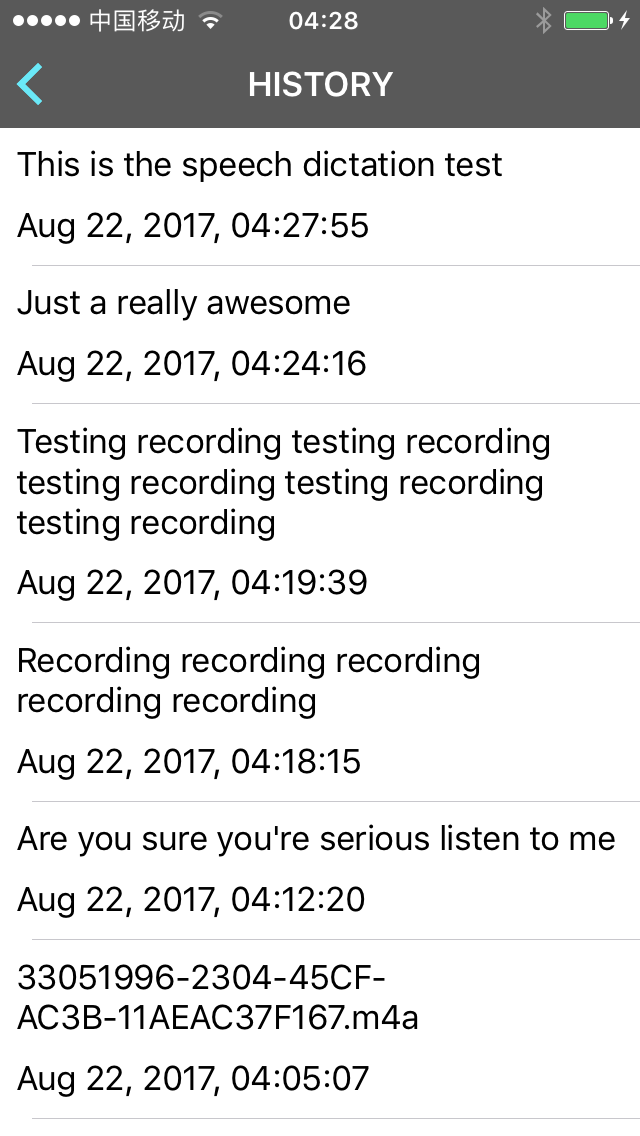
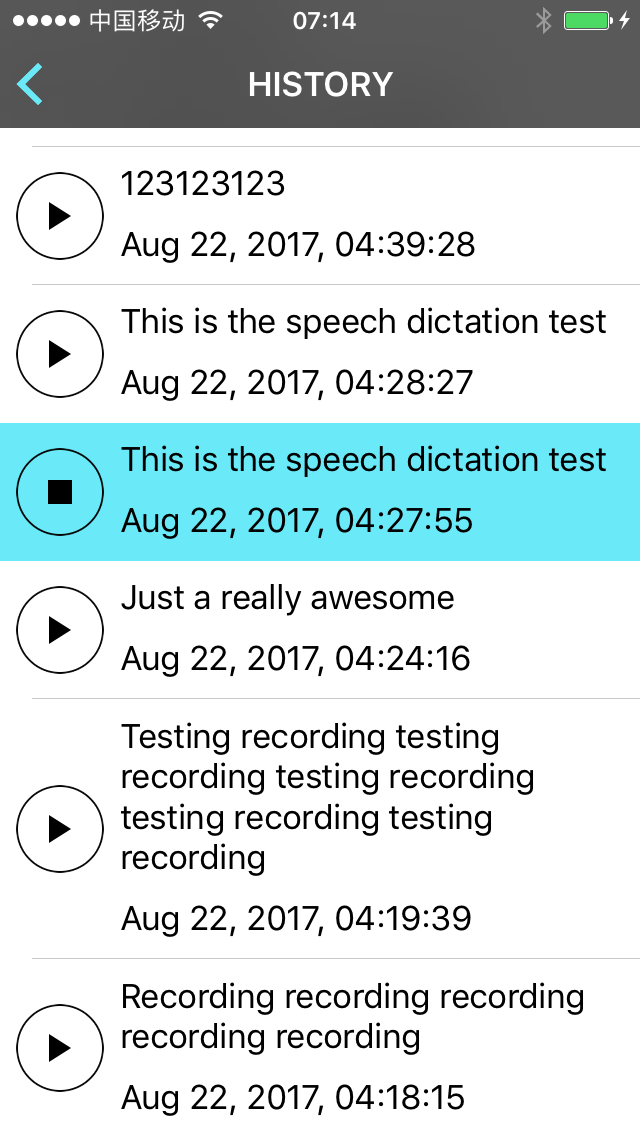
updated a screenshot, added play stop button indicator

diff --git a/VoiceMemo/VoiceMemoTableVC.swift b/VoiceMemo/VoiceMemoTableVC.swift
@@ -39,10 +39,18 @@ class VoiceMemoTableVC: UITableViewController {
         
     }
     
+    func deselectRow(_ indexPath : IndexPath) {
+        tableView.deselectRow(at: indexPath, animated: true)
+        if let cell = tableView.cellForRow(at: indexPath) as? VoiceMemoTableViewCell {
+            cell.playButtonState = false
+        }
+    }
+    
+    
     func finishPlayback(noti : Notification) {
         //let flag = noti.object as? Bool // not using right now
         if let indexPath = tableView.indexPathForSelectedRow{
-            tableView.deselectRow(at: indexPath, animated: true)
+            deselectRow(indexPath)
         }
         
     }
@@ -51,25 +59,31 @@ class VoiceMemoTableVC: UITableViewController {
         return voiceRecords.count
     }
     
+    override func tableView(_ tableView: UITableView, cellForRowAt indexPath: IndexPath) -> UITableViewCell {
+        let cell = tableView.dequeueReusableCell(withIdentifier: "voiceCell", for: indexPath) as! VoiceMemoTableViewCell
+        let record = voiceRecords[indexPath.row]
+        cell.nameLabel.text = record.fileDescription ?? record.fileName
+        cell.descriptionLabel.text = (record.creationDate as Date?)?.toTimeString()
+        cell.playButtonState =  indexPath == tableView.indexPathForSelectedRow
+        
+        return cell
+    }
+    
+    override func tableView(_ tableView: UITableView, didDeselectRowAt indexPath: IndexPath) {
+        if let cell = tableView.cellForRow(at: indexPath) as? VoiceMemoTableViewCell {
+            cell.playButtonState = false
+        }
+    }
+    
     override func tableView(_ tableView: UITableView, willSelectRowAt indexPath: IndexPath) -> IndexPath? {
         if indexPath == tableView.indexPathForSelectedRow{
-            tableView.deselectRow(at: indexPath, animated: true)
+            deselectRow(indexPath)
             VM.shared.stopPlayback()
             return nil
         }
         return indexPath
     }
     
-    override func tableView(_ tableView: UITableView, cellForRowAt indexPath: IndexPath) -> UITableViewCell {
-        let cell = tableView.dequeueReusableCell(withIdentifier: "voiceCell", for: indexPath) as! VoiceMemoTableViewCell
-        let record = voiceRecords[indexPath.row]
-        cell.nameLabel.text = record.fileDescription ?? record.fileName
-        cell.descriptionLabel.text = (record.creationDate as Date?)?.toTimeString()
-        
-        return cell
-    }
-    
-
     
     override func tableView(_ tableView: UITableView, didSelectRowAt indexPath: IndexPath) {
         
@@ -81,6 +95,9 @@ class VoiceMemoTableVC: UITableViewController {
         }
         VM.shared.stopPlayback()
         VM.shared.playFile(fileName)
+        if let cell = tableView.cellForRow(at: indexPath) as? VoiceMemoTableViewCell {
+            cell.playButtonState = true
+        }
     }
     
     override func tableView(_ tableView: UITableView, editActionsForRowAt indexPath: IndexPath) -> [UITableViewRowAction]? {
@@ -98,6 +115,16 @@ class VoiceMemoTableVC: UITableViewController {
 class VoiceMemoTableViewCell : UITableViewCell {
     @IBOutlet weak var nameLabel: UILabel!
     @IBOutlet weak var descriptionLabel: UILabel!
+    @IBOutlet weak var playStopButton: UIButton!
+    var playButtonState : Bool {
+        set{
+            if newValue {playStopButton.setTitle("", for: .normal)}
+            else {playStopButton.setTitle("", for: .normal)}
+        }
+        get{
+            return self.playButtonState
+        }
+    }
     
 }
 

diff --git a/VoiceMemo/CustomizedViews.swift b/VoiceMemo/CustomizedViews.swift
@@ -14,18 +14,13 @@ protocol RecordingStateDelegate : NSObjectProtocol {
     func didCancellRecording()
 }
 
-class RecordButton : UIButton {
-    @IBInspectable
-    var borderUIColor : UIColor = UIColor.blue
-    
-    
+class RecordButton : ButtonWithBorder {
+
     weak var delegate : RecordingStateDelegate?
     
     override func awakeFromNib() {
         super.awakeFromNib()
         self.layer.borderWidth = 2
-        self.clipsToBounds = true
-        self.layer.borderColor = borderUIColor.cgColor
     }
     
     override func layoutSubviews() {
@@ -52,5 +47,19 @@ class RecordButton : UIButton {
         delegate?.didCancellRecording()
         super.touchesCancelled(touches, with: event)
     }
+    
+}
+
+class ButtonWithBorder : UIButton {
+    
+    @IBInspectable
+    var borderUIColor : UIColor = UIColor.blue
+    override func awakeFromNib() {
+        super.awakeFromNib()
+        self.clipsToBounds = true
+        self.layer.borderColor = borderUIColor.cgColor
+    }
+    
+    
     
 }
